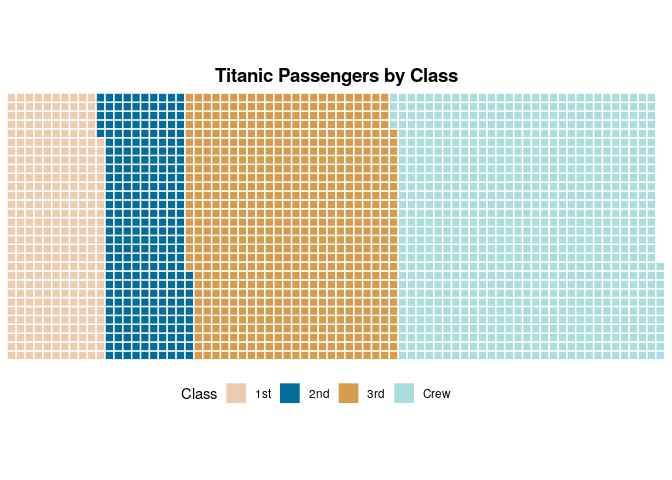
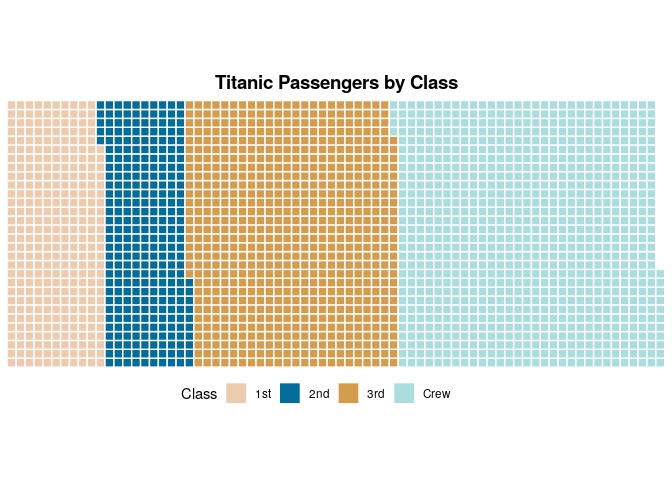
fail

Changed region(s): [[0.0, 0.125, 1.0, 0.7812]]

diff --git a/Chart_Collection.md b/Chart_Collection.md
@@ -197,10 +197,11 @@ waffle_palette[5] <- 'white' #
 waffle( titanic_class %>% 
     rename(names=Class,vals=n),  # rename data to match waffle chart syntax
   rows = 30, size = 0.5, 
-  colors = waffle_palette, legend_pos = "bottom") +
+  colors = waffle_palette) +
   labs(title='Titanic Passengers by Class') +
-  theme(plot.title = element_text(lineheight=1, face="bold",hjust = 0.5,size=14)
-       ) +
+  theme(plot.title = element_text(lineheight=1, face="bold",hjust = 0.5,size=14),
+        legend.margin = margin(0,0,0,0),legend.box.margin=margin(0,0,0,0),
+        legend.position='bottom') +
   guides(fill = guide_legend(title='Class'))
 ```
 
